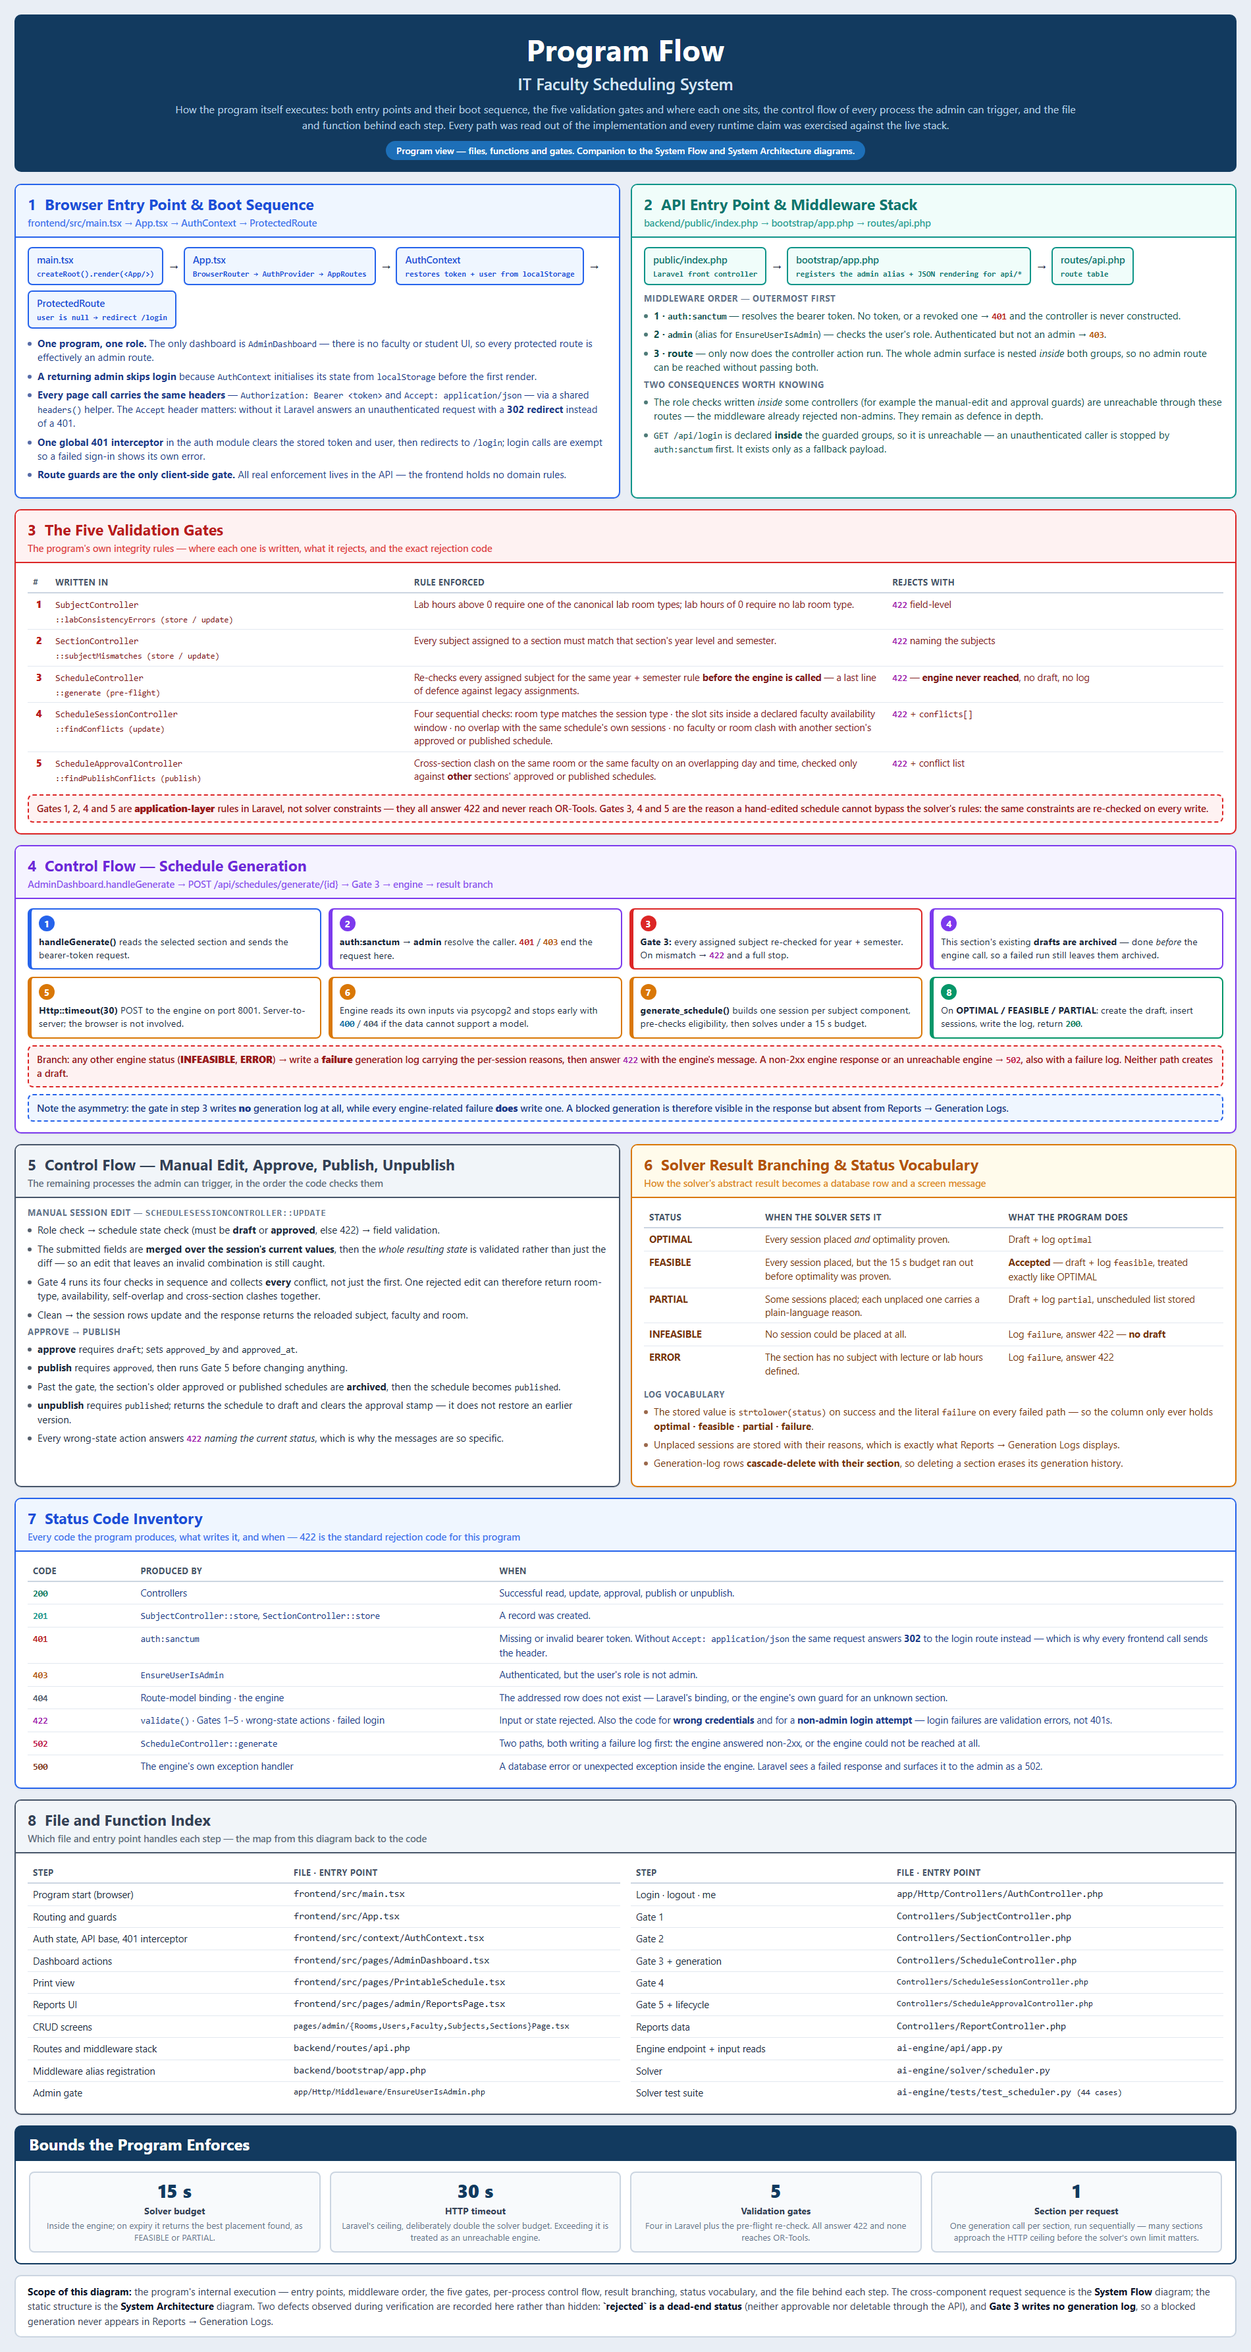
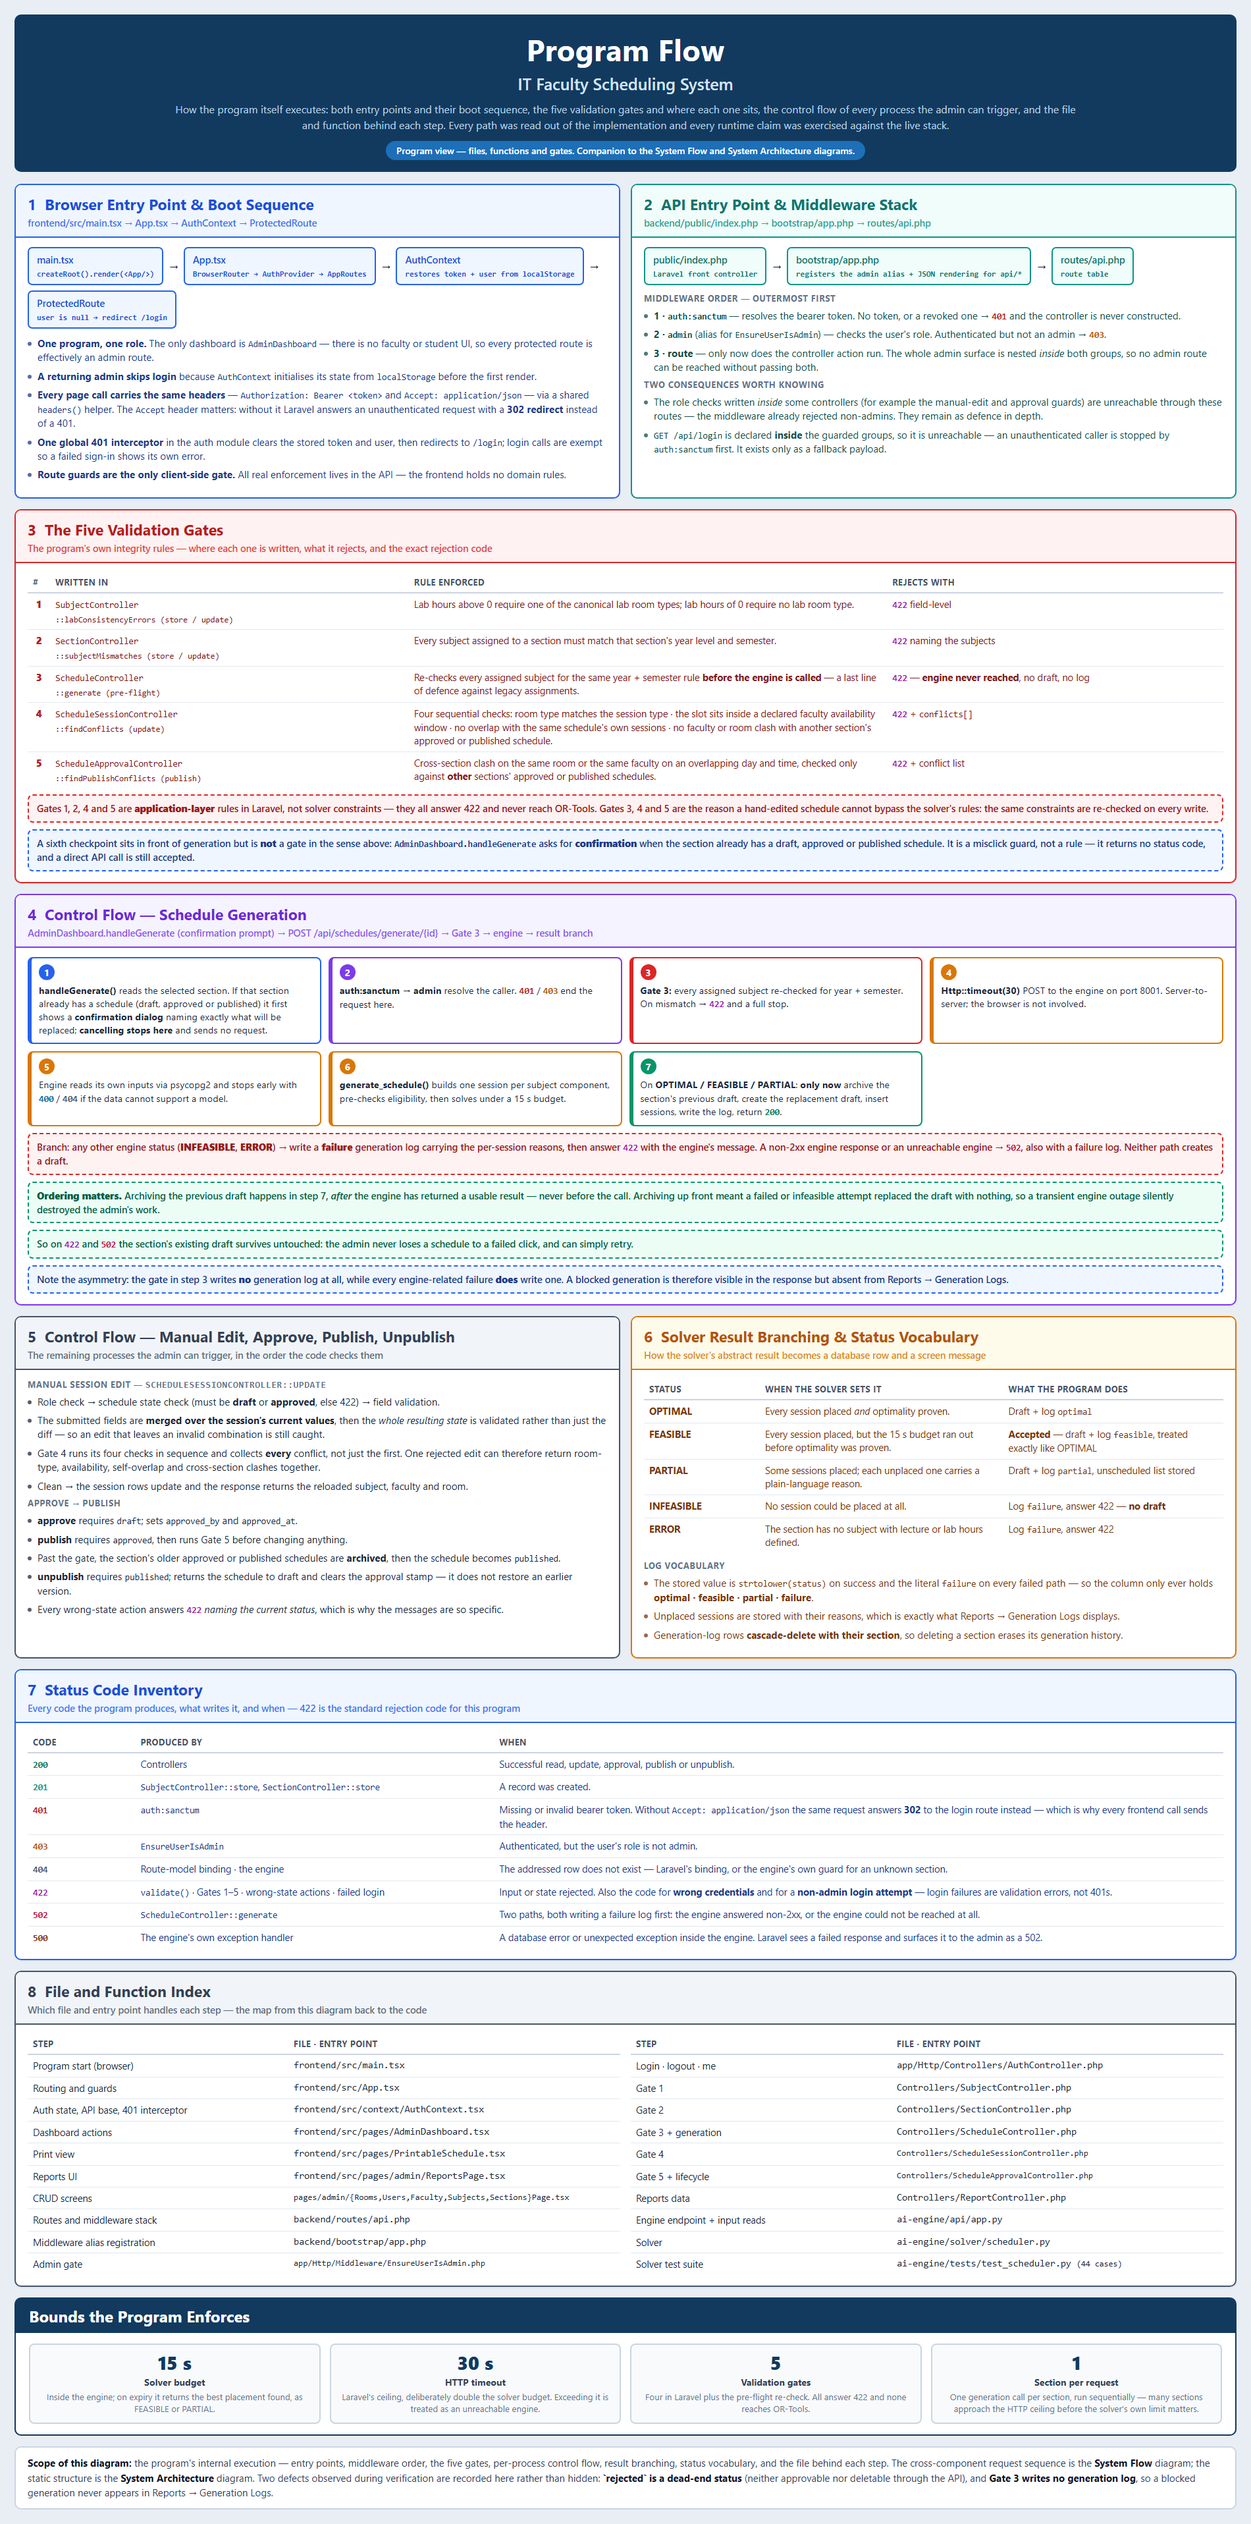
Update the flow docs and diagrams for the regeneration gate
The program-flow and user-flow figures still showed the section's draft being
archived before the engine call, which is no longer how generation works, and
neither showed the confirmation step. Regenerate both images and correct the
prose so the figures, the documents and the code agree.

Changed region(s): [[0.0, 0.0, 0.9937, 0.9947]]

diff --git a/documentation/Program-Flow.md b/documentation/Program-Flow.md
@@ -165,10 +165,10 @@ flowchart TD
 
 ```mermaid
 flowchart TD
-    S["AdminDashboard: POST /api/schedules/generate/sectionId"] --> G3{"Gate 3 — every assigned subject matches<br/>the section year level + semester?"}
+    S["AdminDashboard.handleGenerate: if that section already has a<br/>draft, approved or published schedule, confirm before replacing it<br/>— cancelling sends no request"] --> P["POST /api/schedules/generate/sectionId"]
+    P --> G3{"Gate 3 — every assigned subject matches<br/>the section year level + semester?"}
     G3 -- "no" --> R422["422 with the offending subject codes<br/>AI engine never called"]
-    G3 -- "yes" --> ARCH["Archive existing drafts of this section<br/>(status draft → archived)"]
-    ARCH --> HTTP["Http::timeout(30)->post('http://127.0.0.1:8001/generate-schedule/sectionId')"]
+    G3 -- "yes" --> HTTP["Http::timeout(30)->post('http://127.0.0.1:8001/generate-schedule/sectionId')"]
     HTTP --> F1{"AI engine response ok?"}
     F1 -- "non-2xx" --> L502["ScheduleGenerationLog status=failure<br/>502 to the browser"]
     F1 -- "200" --> READ["FastAPI reads section, subjects, qualified active faculty,<br/>availabilities, existing load, available rooms,<br/>other sections' approved/published sessions"]
@@ -181,13 +181,15 @@ flowchart TD
     PRECHK --> CP["CP-SAT model with the 8 constraint categories<br/>+ section window/self-overlap, Maximize(placed sessions)<br/>max_time_in_seconds = 15"]
     CP --> OUT["{ status, message, sessions[] }<br/>placed sessions carry day/start/end/room/faculty,<br/>unplaced ones carry a reason"]
     OUT --> DEC2{"Laravel accepts the status?"}
-    DEC2 -- "OPTIMAL, FEASIBLE or PARTIAL" --> W["Create Schedule (status=draft) + one ScheduleSession<br/>per placed session + ScheduleGenerationLog<br/>(status optimal | feasible | partial, unscheduled list stored)"]
+    DEC2 -- "OPTIMAL, FEASIBLE or PARTIAL" --> ARCH["Archive the section's existing drafts<br/>(status draft → archived) — only now, after a usable result"]
+    ARCH --> W["Create Schedule (status=draft) + one ScheduleSession<br/>per placed session + ScheduleGenerationLog<br/>(status optimal | feasible | partial, unscheduled list stored)"]
     W --> UI["200 { schedule_id, status, sessions, unscheduled }<br/>AdminDashboard shows 'Status: X — N sessions created'"]
     DEC2 -- "anything else" --> FAIL["ScheduleGenerationLog status=failure<br/>422 with the engine message"]
 ```
 
 - The engine's own failure codes surface to the browser as **502** (non-2xx from FastAPI), and an **unreachable** engine is caught and answered with the same 502 shape — each path writes its own `failure` log row before responding.
-- Draft archiving happens **before** the engine is called, so a failed generation still leaves the section with its previous drafts archived — **observed**: a `FEASIBLE` rejection and an engine-500 run each archived the section's existing draft even though no new schedule was created, and a connection failure archived it too.
+- Draft archiving happens **only after** the engine returns a usable result, and `AdminDashboard.handleGenerate` asks for confirmation up front when the section already has a schedule. **Previously** the bulk `draft → archived` ran *before* the engine call, so any failure left the section with its previous draft archived and no replacement — **observed**: a `FEASIBLE` rejection and an engine-500 run each archived the section's existing draft even though no new schedule was created, and a connection failure did too. **Fixed:** on 422 (INFEASIBLE/ERROR) and 502 (unreachable or non-2xx) the existing draft is now left untouched, pinned by `a_failed_generation_keeps_the_sections_existing_draft` and `an_infeasible_result_keeps_the_sections_existing_draft` in `ScheduleGenerationSectionTest`.
+- The confirmation prompt is **client-side only** (`AdminDashboard.handleGenerate`): a misclick guard, not an enforced rule. It names what would be replaced — an existing draft, approved or published schedule — and cancelling sends no request at all; a direct API call bypasses it.
 - The solver is a pure function: `ai-engine/api/app.py` does the reading (psycopg2) and `ai-engine/solver/scheduler.py` does the solving, with no HTTP code inside it.
 
 ### 3.3 Approve → publish → print (`ScheduleApprovalController`, `PrintableSchedule`)
@@ -285,7 +287,7 @@ This is protection layer 2 — the same rules that the solver enforces at genera
 | Action (code path) | Allowed from | Result | Rejection |
 |---|---|---|---|
 | `ScheduleController::generate` (success) | — | creates `draft` | 422 if the status returned by the engine is not OPTIMAL/FEASIBLE/PARTIAL |
-| `ScheduleController::generate` (start) | `draft` | bulk `draft → archived` for that section | — |
+| `ScheduleController::generate` (success, just before the replacement is written) | `draft` | bulk `draft → archived` for that section | — (a failed or infeasible run archives nothing) |
 | `ScheduleApprovalController::approve` | `draft` | `approved` + `approved_by` + `approved_at` | 422 with current status |
 | `ScheduleApprovalController::publish` | `approved` | `published`; older `approved`/`published` of the same section → `archived` | 422 on wrong status, 422 on conflicts |
 | `ScheduleApprovalController::unpublish` | `published` | `draft`, `approved_by`/`approved_at` cleared | 422 |
@@ -318,7 +320,7 @@ Session-level reasons are always preserved: structurally impossible sessions (no
 ### 4.4 Frontend state handling
 
 - `AuthContext` holds `token` + `user` and mirrors both into `localStorage`; `ProtectedRoute`/`Dashboard` redirect to `/login` when `user` is null. A centralized `fetch` interceptor in the same module watches for HTTP `401`: it clears the stored `token`/`user` and redirects to `/login`, so an expired token never leaves a page rendering empty data. The login endpoints are exempt so a failed sign-in still shows its own error.
-- `AdminDashboard` keeps `selectedSectionId` (initially null, auto-selected from the loaded section list), re-fetches schedules whenever the "Show archived" toggle changes (`?show_archived=`), and surfaces generation outcomes as `Status: X — N sessions created` or the server's error message.
+- `AdminDashboard` keeps `selectedSectionId` (initially null, auto-selected from the loaded section list), re-fetches schedules whenever the "Show archived" toggle changes (`?show_archived=`), and surfaces generation outcomes as `Status: X — N sessions created` or the server's error message. `handleGenerate` also asks for confirmation when the selected section already has a non-archived schedule, naming the draft/approved/published record(s) it would replace.
 - Edit conflicts are shown in the edit dialog itself (`editError`), listing the specific conflict reason(s) returned in the API's `conflicts` array (e.g. faculty availability windows, room type, overlaps); approve/publish/unpublish errors via `alert()`.
 
 ---

diff --git a/documentation/Explainer-User-Flow.md b/documentation/Explainer-User-Flow.md
@@ -1,6 +1,6 @@
 # Explainer — User Flow
 
-**Figure:** [`screenshots/14-user-flow-modern.png`](screenshots/14-user-flow-modern.png) — 1860 × 1310 px, 245 KB
+**Figure:** [`screenshots/14-user-flow-modern.png`](screenshots/14-user-flow-modern.png) — 1860 × 1428 px, 261 KB
 **Editable source:** `.tmp-run/diagram/user-flow.html` (not committed — a scratch file)
 **Companion documents:** [`User-Flow.md`](User-Flow.md), [`System-User-Manual.md`](System-User-Manual.md)
 
@@ -52,7 +52,7 @@ The green pill on the left, **Start**, is "Admin logs in". The green pill on the
 | **1 Login** | Login page | Email + password. Only **admin** accounts can access — others are rejected. A 401 later in the session clears the stored session and redirects back here. |
 | **2 Dashboard** | Admin Dashboard | Overview, schedule list with statuses, and entry points to data management and reports. |
 | **3 Manage Data** | Subjects · Sections · Faculty · Rooms | Maintains the inputs the engine needs. This card is the densest, because it is where the data quality is determined. |
-| **4 Generate Schedule** | Admin Dashboard | Selects a section and runs generation. |
+| **4 Generate Schedule** | Admin Dashboard | Selects a section and runs generation. If that section already has a schedule, a confirmation prompt names what would be replaced before anything is sent. |
 
 Three things are called out inside step 3 that are worth reading aloud, because they are the rules the admin must satisfy *before* they can get a good schedule:
 
@@ -60,7 +60,7 @@ Three things are called out inside step 3 that are worth reading aloud, because 
 - **Sections** — the subject checklist only offers subjects matching the section's year level and semester, otherwise 422.
 - **Faculty records** — availability is declared as a **day plus a time window**, along with qualifications and a **maximum teaching load**. The load is a **weekly** figure, not daily.
 
-Step 4 carries a dashed note box with the two failure outcomes: an unreachable engine gives HTTP 502 and a failure log with no draft, and an INFEASIBLE result produces no draft, with the unscheduled reasons recorded in the log.
+Step 4 carries a dashed note box with the two failure outcomes: an unreachable engine gives HTTP 502 and a failure log with no draft, and an INFEASIBLE result produces no draft, with the unscheduled reasons recorded in the log. The card also states the ordering rule the admin benefits from: the section's existing draft is replaced **only after** a successful run, so a failed attempt never costs them their draft. The confirmation prompt on the same card is the misclick guard — it is **client-side**, so cancelling sends no request at all.
 
 ### The "Review and Validation" group — steps 5 to 8
 
@@ -186,12 +186,12 @@ The admin sets it on the faculty record at step 3. It is a **weekly** cap on tot
 "/c/Program Files (x86)/Microsoft/Edge/Application/msedge.exe" \
   --headless=new --disable-gpu --no-first-run --hide-scrollbars \
   --user-data-dir="$(mktemp -d)" \
-  --window-size=1860,1310 \
+  --window-size=1860,1428 \
   --screenshot="documentation/screenshots/14-user-flow-modern.png" \
   "file:///<repo>/.tmp-run/diagram/user-flow.html"
 ```
 
-`--window-size` must equal the measured page size or the capture clips. The current figure is 1860 × 1310.
+`--window-size` must equal the measured page size or the capture clips. The current figure is 1860 × 1428. The output path must be **absolute** — Edge resolves a relative `--screenshot` path against its own working directory and silently fails to write.
 
 ---
 

diff --git a/documentation/Explainer-Program-Flow.md b/documentation/Explainer-Program-Flow.md
@@ -1,6 +1,6 @@
 # Explainer — Program Flow
 
-**Figure:** [`screenshots/17-program-flow.png`](screenshots/17-program-flow.png) — 1900 × 3571 px, 574 KB
+**Figure:** [`screenshots/17-program-flow.png`](screenshots/17-program-flow.png) — 1900 × 3832 px, 650 KB
 **Editable source:** `.tmp-run/diagram/program-flow-v2.html` (not committed — a scratch file)
 **Companion documents:** [`Program-Flow.md`](Program-Flow.md), [`Explainer-System-Flow.md`](Explainer-System-Flow.md)
 
@@ -85,9 +85,13 @@ The dashed callout box under the table is the sentence to deliver: **Gates 1, 2,
 
 Gates 3, 4 and 5 together are why a hand-edited schedule cannot bypass the solver's rules — the same constraints are re-checked on every write.
 
+A sixth checkpoint is drawn beneath the table but is **not** one of the five gates: `AdminDashboard.handleGenerate` asks for **confirmation** when the section already has a draft, approved or published schedule. It is a misclick guard, not a rule — it returns no status code, and a direct API call is still accepted.
+
 ### Section 4 — Control Flow: Schedule Generation
 
-Eight numbered steps followed by both branch outcomes. The step to point at is **step 4**: drafts are archived *before* the engine is called, so a failed run still leaves the section's old drafts archived. That is a real behavioural consequence, and the figure states it.
+Seven numbered steps followed by both branch outcomes. Two things to point at. **Step 1** is the confirmation prompt: if the section already has a draft, approved or published schedule, the UI names what would be replaced *before* sending anything — cancelling sends no request. **Step 7** is the ordering rule: the section's previous draft is archived **only after** the engine returns a usable result, never before the call.
+
+That ordering is worth volunteering as a fixed defect. Archiving up front (the earlier behaviour) meant a failed or infeasible run replaced the draft with *nothing*, so a transient engine outage silently destroyed the admin's work. Now a **422** or **502** leaves the existing draft untouched — a failed attempt is retryable rather than destructive.
 
 The blue callout under it records an asymmetry worth volunteering: **the pre-flight gate writes no generation log at all, while every engine-related failure does.** A blocked generation is visible in the response but absent from Reports → Generation Logs.
 
@@ -200,12 +204,12 @@ Separation of concerns. `app.py` handles HTTP and data access; `scheduler.py` co
 "/c/Program Files (x86)/Microsoft/Edge/Application/msedge.exe" \
   --headless=new --disable-gpu --no-first-run --hide-scrollbars \
   --user-data-dir="$(mktemp -d)" \
-  --window-size=1900,3571 \
+  --window-size=1900,3832 \
   --screenshot="documentation/screenshots/17-program-flow.png" \
   "file:///<repo>/.tmp-run/diagram/program-flow-v2.html"
 ```
 
-`--window-size` must equal the measured page size or the capture clips. The current figure is 1900 × 3571.
+`--window-size` must equal the measured page size or the capture clips. The current figure is 1900 × 3832. The output path must be **absolute** — Edge resolves a relative `--screenshot` path against its own working directory and silently fails to write.
 
 ---
 

diff --git a/documentation/User-Flow.md b/documentation/User-Flow.md
@@ -30,7 +30,9 @@ flowchart TD
     E1 -- no --> E2[HTTP 422<br/>offending subject codes named<br/>· assignment rejected]
     E2 --> E
     E1 -- yes --> F[Generate Schedule]
-    F --> F1{Laravel validation gate:<br/>all assigned subjects match<br/>year level + semester?}
+    F --> F0{"Section already has a schedule?<br/>show a confirmation prompt<br/>naming what will be replaced"}
+    F0 -- "confirmed / none exists" --> F1{Laravel validation gate:<br/>all assigned subjects match<br/>year level + semester?}
+    F0 -. cancel — nothing is sent .-> C
     F1 -- no --> F2[HTTP 422<br/>AI engine never called]
     F2 --> E
     F1 -- yes --> F3[FastAPI → OR-Tools CP-SAT<br/>candidate schedule]
@@ -54,7 +56,8 @@ Text flow (same steps):
 ```text
 Login (admin-only) → Manage Data → Create/Edit Subjects (lab consistency validated)
   → Create/Edit Sections + Assign Subjects (year/semester validated, 422 on mismatch)
-  → Generate Schedule → Laravel validation gate (422 blocks legacy mismatches; AI never called)
+  → Generate Schedule (if the section already has a schedule, confirm before replacing it — cancelling sends nothing)
+  → Laravel validation gate (422 blocks legacy mismatches; AI never called)
   → OR-Tools CP-SAT candidate → DRAFT → Review / Manual Edit (conflict-checked)
   → Approve → Publish conflict gate → PUBLISHED → Print/Download PDF → Distribute
   → (Unpublish returns to DRAFT for re-editing)
